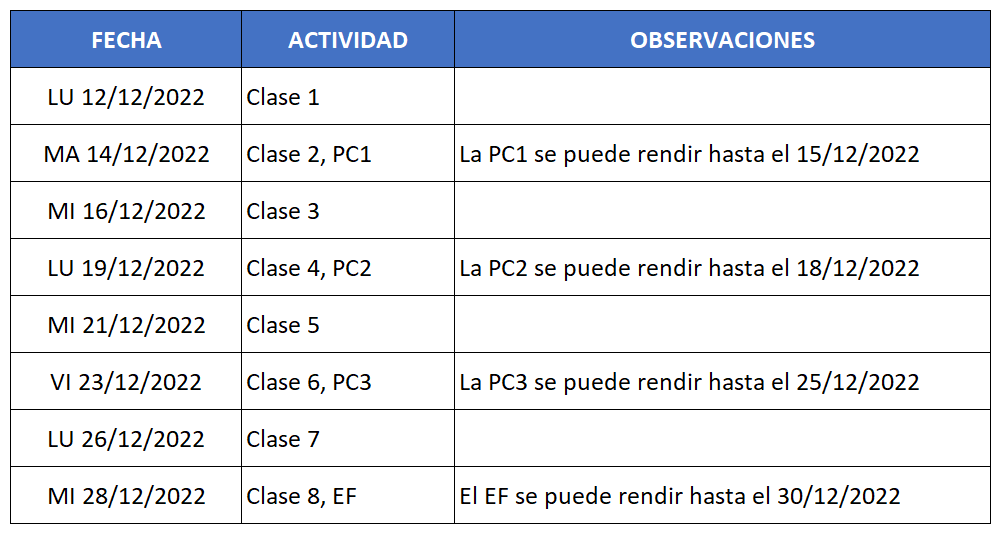
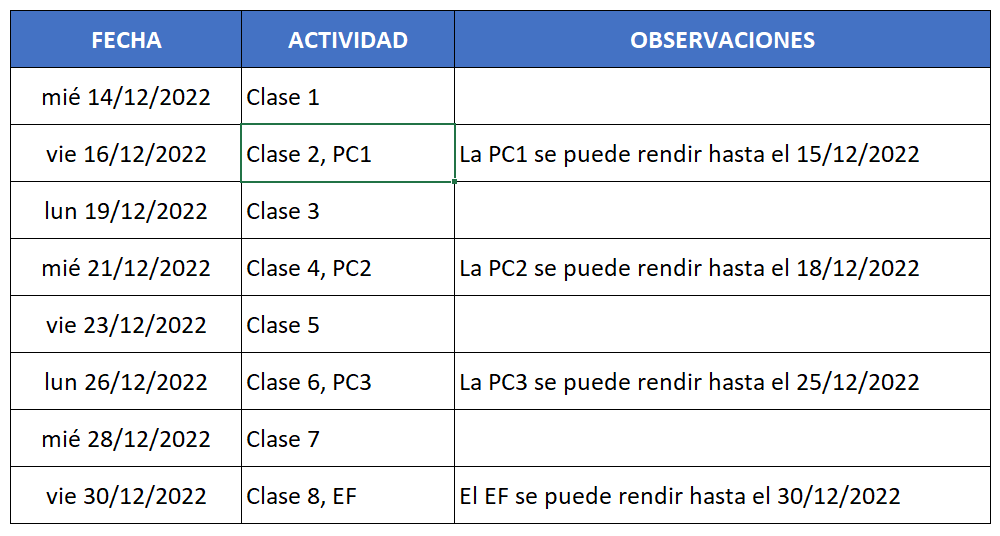
Repositorio

diff --git a/README.md b/README.md
@@ -7,7 +7,7 @@
 
 - Lugar: UNI - CTIC
 - Horario síncrono: Lunes, Miercoles y Viernes de 18:30 - 21:30 Horas
-- Inicio: 12.DIC.2022
+- Inicio: Miercoles 14.DIC.2022
 - Dirección: https://goo.gl/maps/DvXVYCZoGXX3wV3m7
 
 # DATOS ACADEMICOS
